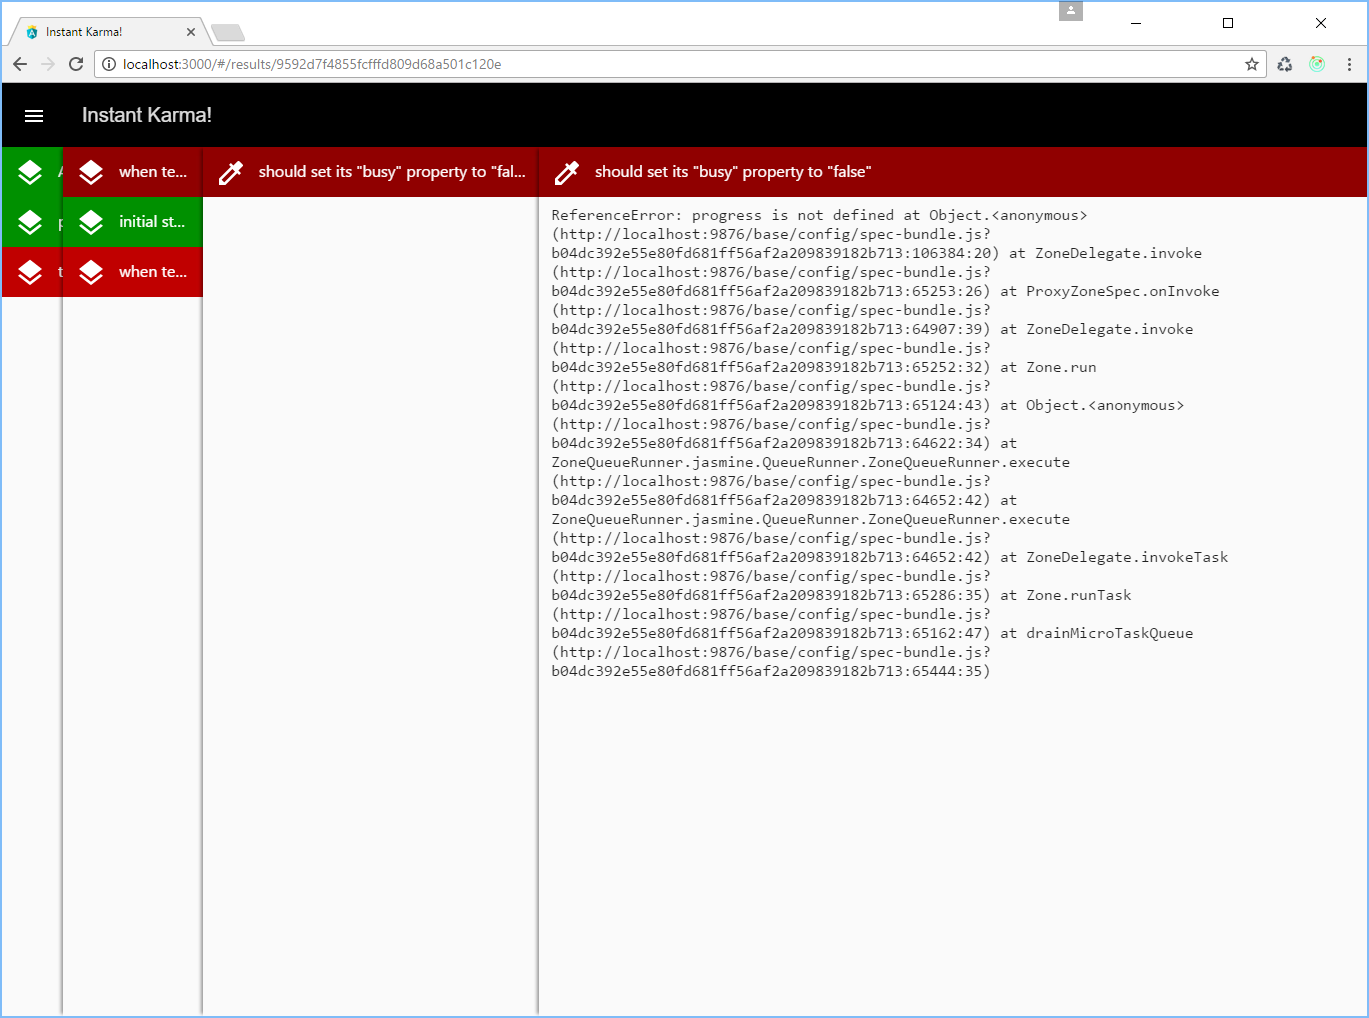
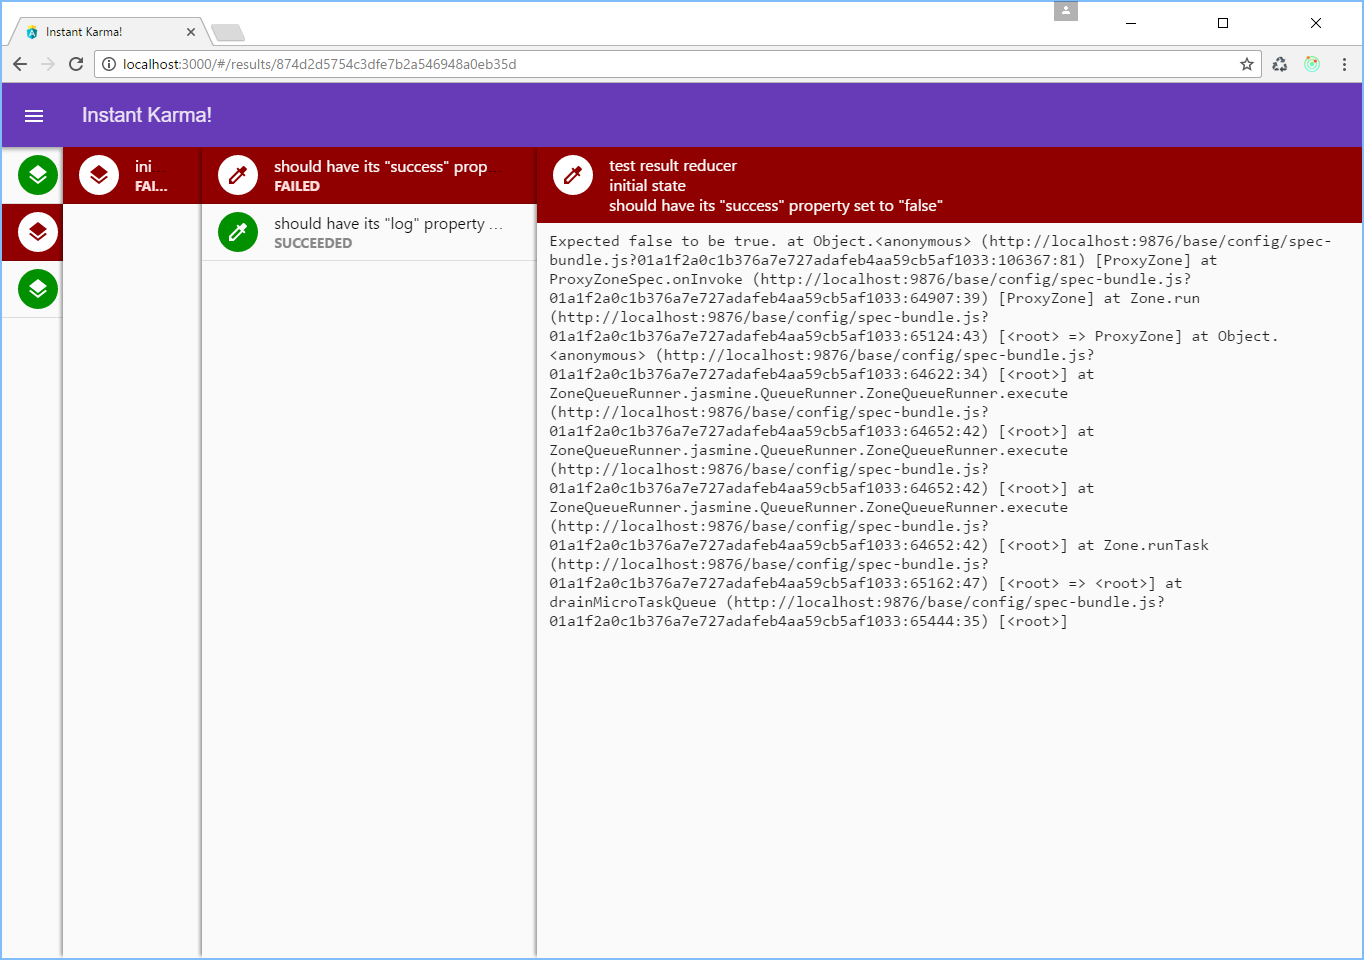
More design changes

Changed region(s): [[0.0, 0.0, 1.0, 0.6875], [0.893, 0.3438, 0.9238, 0.375]]

diff --git a/src/app/results/results.component.ts b/src/app/results/results.component.ts
@@ -3,7 +3,7 @@ import { ActivatedRoute } from '@angular/router';
 import { Observable } from 'rxjs/Rx';
 import { select } from 'ng2-redux';
 import * as Immutable from 'immutable';
-import { ISessionState } from '../../store';
+import { ISessionState, ITestResultState } from '../../store';
 import { IResult } from './result.model';
 import { ISuite } from './suite.model';
 
@@ -47,11 +47,13 @@ export class ResultsComponent implements OnInit {
             if (results[id].log.length > 0) {
                 model.result = {
                     id,
+                    path: this.getPath(results[id], session),
                     description: results[id].description,
                     log: results[id].log
                 };
                 width *= 0.4;
             }
+            selectedId = id;
             id = results[id].suite;
         }
 
@@ -69,6 +71,19 @@ export class ResultsComponent implements OnInit {
         console.log('model = ', model)
         return model;
     }
+    private getPath(result: any, session: any): string[] {
+        let suites = session.suites;
+        let parentId = result.suite;
+        let path: string[] = [];
+        while (parentId) {
+            let suiteName = parentId in suites ? suites[parentId] : undefined;
+            if (suiteName) {
+                path.unshift(suiteName);
+            }
+            parentId = parentId in suites ? suites[parentId].suite : undefined;
+        }
+        return path;
+    }
 
     private getSuite(session: any, id: string, selectedId: string, width: number): ISuite {
         let suite: ISuite = { suites: [], results: [], log: [], width: '100%' };
@@ -77,7 +92,7 @@ export class ResultsComponent implements OnInit {
         }
 
         if (session.results) {
-            suite.results = this.filterById(session.results, id, null);
+            suite.results = this.filterById(session.results, id, selectedId);
 
             suite.width = `${width}%`;
 

diff --git a/src/app/results/result.component.scss b/src/app/results/result.component.scss
@@ -2,10 +2,34 @@
     font-family: "Segoe UI", Helvetica, sans-serif;   
 }
 
-.ink-caption {
-    padding: 8px 12px;
+.ink-header {
+    display: flex;
+    flex-direction: row;
+    background: rgb(144, 0, 0);
     color: white;
-    line-height: 32px;
+    padding: 8px;
+}
+
+.ink-avatar {
+    width: 40px;
+    height: 40px;
+    background: white;
+    color: rgb(144, 0, 0);
+    border-radius: 50%;
+    position: relative;
+    margin: 0 8px;
+
+    md-icon {
+        position: absolute;
+        top: 8px;
+        left: 8px;
+    }
+}
+
+.ink-caption {
+    padding: 0 8px;
+    color: white;
+    line-height: 20px;
     box-sizing: border-box;
     background: rgb(144, 0, 0);
     overflow: hidden;
@@ -21,42 +45,7 @@
 }
 
 .ink-log {
+    margin: 0;
     padding: 8px 12px;
     font-family: Consolas;
 }
-
-/*
-.ink-item {
-    display: block;
-    width: 100%;
-    padding: 8px 12px;
-    font-family: "Segoe UI", Helvetica, sans-serif;
-    text-decoration: none;
-    color: white;
-    line-height: 32px;
-    box-sizing: border-box;
-    background: rgb(144, 0, 0);
-    overflow: hidden;
-    white-space: nowrap;
-    text-overflow: ellipsis;
-
-    &.ink-selected {
-        background: rgb(192, 0, 0);
-    }
-
-    &.ink-success {
-        background: rgb(0, 144, 0);
-    }
-
-    &.ink-success.ink-selected {
-        background: rgb(0, 192, 0);
-    }
-
-    md-icon {
-        width: 32px;
-        height: 32px;
-        vertical-align: middle;
-        margin-right: 12px;
-    }
-}
-*/

diff --git a/src/app/results/suite.component.html b/src/app/results/suite.component.html
@@ -1,8 +1,8 @@
 <div [style.width]="width">
     <md-nav-list>
-        <md-list-item *ngFor="let item of suite.suites">
-            <div md-list-avatar
-                [ngClass]="{ 'ink-success': item.success }">
+        <md-list-item *ngFor="let item of suite.suites"
+            [ngClass]="{ 'ink-success': item.success, 'ink-selected': item.selected }">
+            <div md-list-avatar>
                 <md-icon svgIcon="layers"></md-icon>
             </div>
             <a md-line [routerLink]="['/results', item.id]">
@@ -13,9 +13,9 @@
         </md-list-item>
     </md-nav-list>
     <md-nav-list>
-        <md-list-item *ngFor="let item of suite.results">
-            <div md-list-avatar
-                [ngClass]="{ 'ink-success': item.success }">
+        <md-list-item *ngFor="let item of suite.results"
+            [ngClass]="{ 'ink-success': item.success, 'ink-selected': item.selected }">
+            <div md-list-avatar>
                 <md-icon svgIcon="colorize"></md-icon>
             </div>
             <a md-line [routerLink]="['/results', item.id]">

diff --git a/src/app/results/suite.component.scss b/src/app/results/suite.component.scss
@@ -10,14 +10,46 @@ md-list-item {
         background: rgb(144, 0, 0);
         color: white;
 
-        &.ink-success {
-            background: rgb(0, 144, 0);
-        }
-
         md-icon {
             position: absolute;
             left: 8px;
             top: 8px;
+        }
+    }
+
+    &.ink-selected {
+        background: rgb(144, 0, 0);
+
+        div[md-list-avatar] {
+            background: white;
+            color: rgb(144, 0, 0);
+        }
+
+        .ink-description {
+            color: white;
+        }
+
+        .ink-status {
+            color: #ffe0e0;
+        }
+    }
+
+    &.ink-success {
+        div[md-list-avatar] {
+            background: rgb(0, 144, 0);
+        } 
+
+        &.ink-selected {
+            background: rgb(0, 144, 0);  
+
+            div[md-list-avatar] {
+                background: white;
+                color: rgb(0, 144, 0);
+            }
+
+            .ink-status {
+                color: #e0ffe0;
+            } 
         }
     }
 }

diff --git a/src/app/results/result.component.html b/src/app/results/result.component.html
@@ -1,6 +1,14 @@
 <div class="ink-result">
-    <div class="ink-caption">
-        <span>{{result.description}}</span>
+    <div class="ink-header">
+        <div class="ink-avatar">
+            <md-icon svgIcon="colorize"></md-icon>
+        </div>
+        <div class="ink-caption">
+            <div *ngFor="let step of result.path">
+                {{step.name}}
+            </div>
+            <div>{{result.description}}</div>
+        </div>
     </div>
-    <div class="ink-log" *ngFor="let log of result.log">{{log}}</div>
+    <p class="ink-log" *ngFor="let log of result.log">{{log}}</p>
 </div>

diff --git a/src/store/data/test-result.reducer.ts b/src/store/data/test-result.reducer.ts
@@ -8,6 +8,7 @@ export interface ITestResultState {
     withMutations(mutator: (mutable: ITestResultState) => ITestResultState): ITestResultState;
     get(key: 'id'): string;
     get(key: 'description'): string;
+    get(key: 'suite'): string;
     get(key: 'success'): boolean;
     get(key: 'log'): Immutable.List<string>;
     set(key: 'id', id: string);

diff --git a/src/store/data/index.ts b/src/store/data/index.ts
@@ -1,2 +1,3 @@
 export { data, IDataState } from './data.reducer';
 export { ISessionState } from './session.reducer';
+export { ITestResultState } from './test-result.reducer';

diff --git a/src/app/results/result.model.ts b/src/app/results/result.model.ts
@@ -1,5 +1,6 @@
 export interface IResult {
     id: string;
+    suites: string[];
     description: string;
     log: string[];
 };
